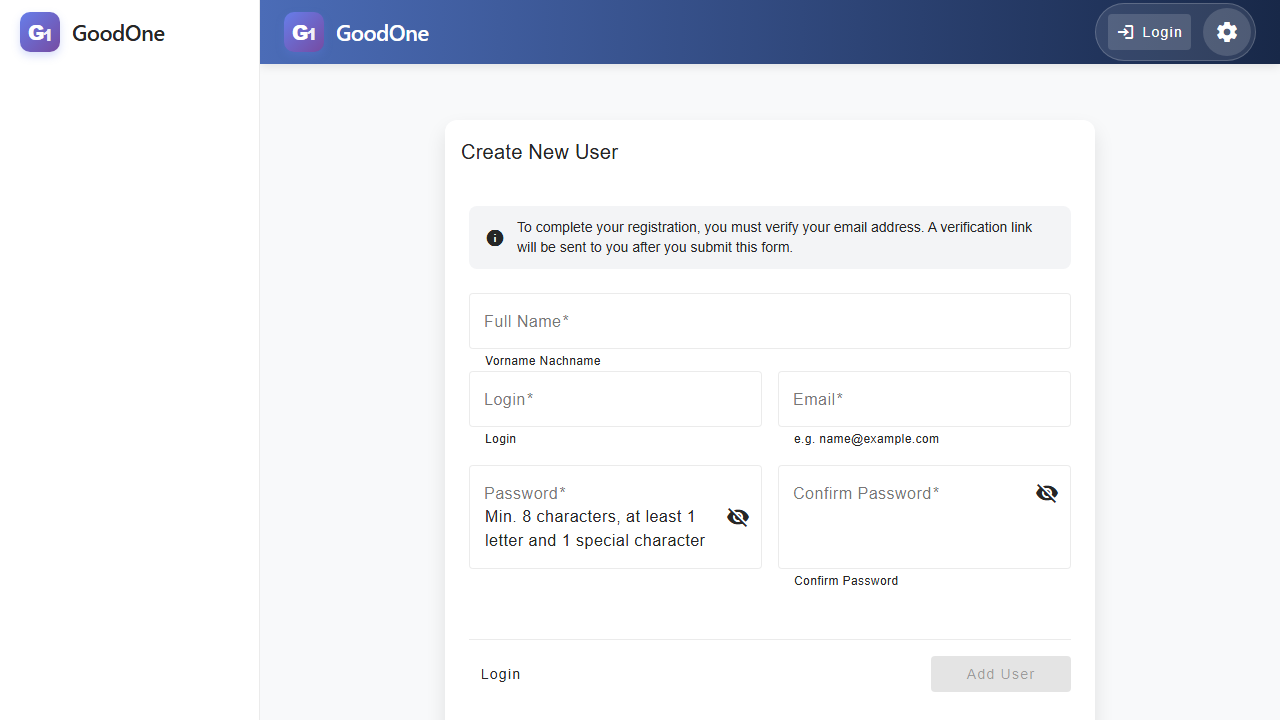
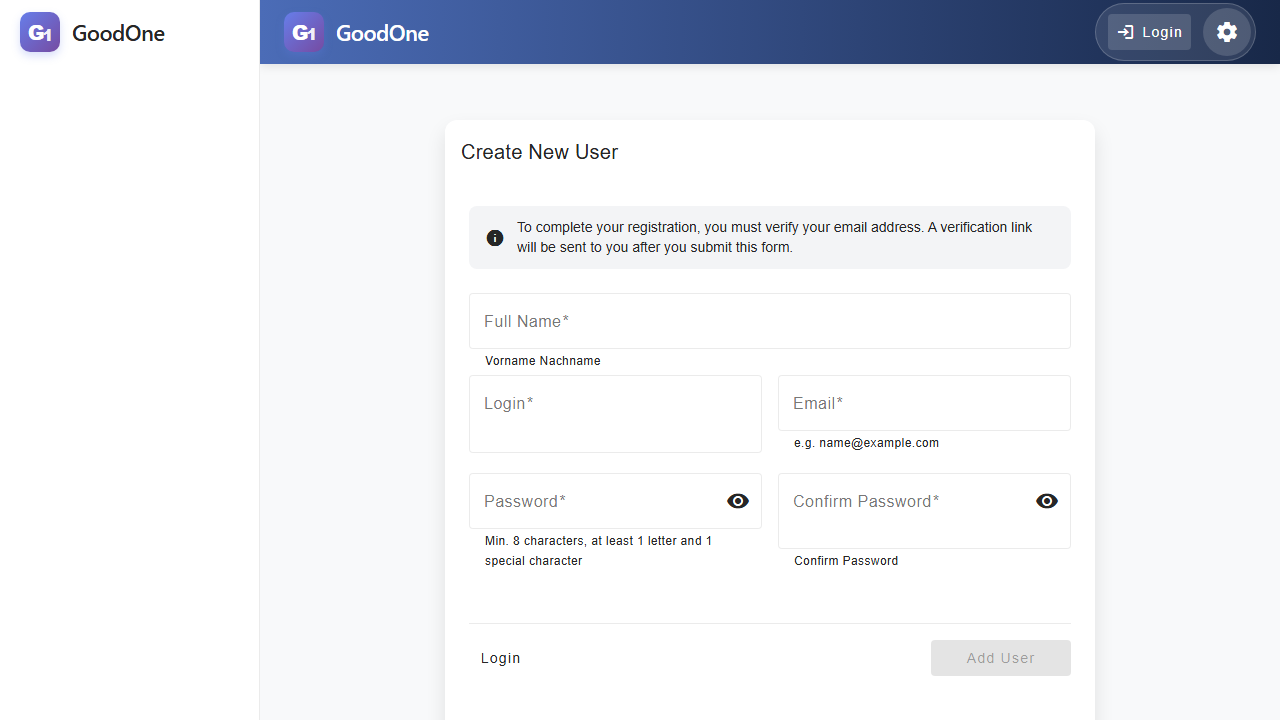
Refactor registration form validation logic to update on blur, enhance error handling, and update tests
- Applied `updateOn: 'blur'` for form field validations.
- Improved password mismatch and strength validator logic.
- Enhanced testing for new blur validation and field interactions.
- Updated e2e and unit tests to reflect validation changes and ensure proper error handling.
- Modified screenshots for UI consistency in testing scenarios.

diff --git a/frontend/src/app/components/register/register.component.ts b/frontend/src/app/components/register/register.component.ts
@@ -44,6 +44,7 @@ export class RegisterComponent implements OnInit, AfterViewInit {
 
   // CR-REG-06: submit/loading state
   isSubmitting = false;
+  submitted = false;
 
   error = '';
   recaptchaSiteKey = '';
@@ -52,7 +53,10 @@ export class RegisterComponent implements OnInit, AfterViewInit {
 
   showError(controlName: string): boolean {
     const control = this.registerForm.get(controlName);
-    return !!(control && control.invalid && (control.touched || control.dirty));
+    const isMismatch = controlName === 'confirmPassword' &&
+      (this.registerForm.errors?.['passwordMismatch'] || control?.hasError('passwordMismatch'));
+
+    return !!(control && (control.invalid || isMismatch) && (control.touched || this.submitted));
   }
 
   constructor(
@@ -63,11 +67,11 @@ export class RegisterComponent implements OnInit, AfterViewInit {
     private cdr: ChangeDetectorRef
   ) {
     this.registerForm = this.fb.group({
-      fullName: ['', [Validators.required, this.nameFormatValidator()]],
-      login: ['', [Validators.required, this.noSpacesValidator()]],
-      email: ['', [Validators.required, Validators.email]],
-      password: ['', [Validators.required, this.passwordStrengthValidator()]],
-      confirmPassword: ['', Validators.required],
+      fullName: ['', { validators: [Validators.required, this.nameFormatValidator()], updateOn: 'blur' }],
+      login: ['', { validators: [Validators.required, this.noSpacesValidator()], updateOn: 'blur' }],
+      email: ['', { validators: [Validators.required, Validators.email], updateOn: 'blur' }],
+      password: ['', { validators: [Validators.required, this.passwordStrengthValidator()], updateOn: 'blur' }],
+      confirmPassword: ['', { validators: [Validators.required], updateOn: 'blur' }],
       address: ['']
     }, { validators: this.passwordMatchValidator });
   }
@@ -83,9 +87,14 @@ export class RegisterComponent implements OnInit, AfterViewInit {
   passwordStrengthValidator() {
     // CR-REG-02: centralize validators
     return (control: AbstractControl): ValidationErrors | null => {
-      if (!control.value) return null;
+      const value = control.value;
+      if (!value) return null;
       const passwordRegex = /^(?=.*[A-Za-z])(?=.*[^A-Za-z0-9]).{8,}$/;
-      return passwordRegex.test(control.value) ? null : { passwordStrength: true };
+      const isInvalid = !passwordRegex.test(value);
+
+      // Update strength immediately on typing via template (input) event
+      // This validator runs on blur due to updateOn: 'blur'
+      return isInvalid ? { passwordStrength: true } : null;
     };
   }
 
@@ -102,12 +111,24 @@ export class RegisterComponent implements OnInit, AfterViewInit {
     // CR-REG-02: confirm match as form error
     const password = group.get('password')?.value;
     const confirmPassword = group.get('confirmPassword')?.value;
-    if (!confirmPassword) return null; // Wait for user to type something
+    const confirmControl = group.get('confirmPassword');
+
+    // Logic: mismatch shows only after confirm has value + blur, or after submit
+    // updateOn: 'blur' on confirmControl handles the blur part.
+    if (!confirmPassword) {
+      if (confirmControl) {
+         const currentErrors = confirmControl.errors;
+         if (currentErrors) {
+           delete currentErrors['passwordMismatch'];
+           confirmControl.setErrors(Object.keys(currentErrors).length > 0 ? currentErrors : null);
+         }
+      }
+      return null;
+    }
 
     const mismatch = password === confirmPassword ? null : { passwordMismatch: true };
 
     // Also set error on the confirmPassword control so mat-form-field marks it as invalid
-    const confirmControl = group.get('confirmPassword');
     if (confirmControl) {
       const currentErrors = confirmControl.errors;
       if (mismatch) {
@@ -227,6 +248,7 @@ export class RegisterComponent implements OnInit, AfterViewInit {
   }
 
   onSubmit() {
+    this.submitted = true;
     if (this.registerForm.invalid) {
       this.registerForm.markAllAsTouched();
       return;

diff --git a/frontend/e2e/registration-extensive.spec.ts b/frontend/e2e/registration-extensive.spec.ts
@@ -151,10 +151,15 @@ test.describe('Registration Extensive E2E Tests', () => {
     // or just assume it works if it reaches the success screen.
 
     await page.locator('input[formControlName="fullName"]').fill('   Hans Peter   Müller   ');
+    await page.locator('input[formControlName="fullName"]').blur();
     await page.locator('input[formControlName="login"]').fill(login);
+    await page.locator('input[formControlName="login"]').blur();
     await page.locator('input[formControlName="email"]').fill(email);
+    await page.locator('input[formControlName="email"]').blur();
     await page.locator('input[formControlName="password"]').fill('ValidPass123!');
+    await page.locator('input[formControlName="password"]').blur();
     await page.locator('input[formControlName="confirmPassword"]').fill('ValidPass123!');
+    await page.locator('input[formControlName="confirmPassword"]').blur();
 
     // The button should be enabled now
     const registerBtn = page.locator('#register-btn');
@@ -194,10 +199,15 @@ test.describe('Registration Extensive E2E Tests', () => {
 
   test('should handle registration errors from backend', async ({ page }) => {
     await page.locator('input[formControlName="fullName"]').fill('John Doe');
+    await page.locator('input[formControlName="fullName"]').blur();
     await page.locator('input[formControlName="login"]').fill('existinguser');
+    await page.locator('input[formControlName="login"]').blur();
     await page.locator('input[formControlName="email"]').fill('existing@example.com');
+    await page.locator('input[formControlName="email"]').blur();
     await page.locator('input[formControlName="password"]').fill('ValidPass123!');
+    await page.locator('input[formControlName="password"]').blur();
     await page.locator('input[formControlName="confirmPassword"]').fill('ValidPass123!');
+    await page.locator('input[formControlName="confirmPassword"]').blur();
 
     // Mock error response
     await page.route('**/api/auth/register', async route => {
@@ -223,10 +233,15 @@ test.describe('Registration Extensive E2E Tests', () => {
 
     // 1. Initial registration (Mock success)
     await page.locator('input[formControlName="fullName"]').fill('First Attempt');
+    await page.locator('input[formControlName="fullName"]').blur();
     await page.locator('input[formControlName="login"]').fill(login);
+    await page.locator('input[formControlName="login"]').blur();
     await page.locator('input[formControlName="email"]').fill(email);
+    await page.locator('input[formControlName="email"]').blur();
     await page.locator('input[formControlName="password"]').fill('ValidPass123!');
+    await page.locator('input[formControlName="password"]').blur();
     await page.locator('input[formControlName="confirmPassword"]').fill('ValidPass123!');
+    await page.locator('input[formControlName="confirmPassword"]').blur();
 
     await page.route('**/api/auth/register', async route => {
       await route.fulfill({
@@ -246,10 +261,15 @@ test.describe('Registration Extensive E2E Tests', () => {
     });
 
     await page.locator('input[formControlName="fullName"]').fill('Second Attempt');
+    await page.locator('input[formControlName="fullName"]').blur();
     await page.locator('input[formControlName="login"]').fill(login);
+    await page.locator('input[formControlName="login"]').blur();
     await page.locator('input[formControlName="email"]').fill(email);
+    await page.locator('input[formControlName="email"]').blur();
     await page.locator('input[formControlName="password"]').fill('ValidPass123!');
+    await page.locator('input[formControlName="password"]').blur();
     await page.locator('input[formControlName="confirmPassword"]').fill('ValidPass123!');
+    await page.locator('input[formControlName="confirmPassword"]').blur();
 
     // Mock backend allowing it (because it was PENDING)
     await page.route('**/api/auth/register', async route => {

diff --git a/frontend/src/app/components/register/register.component.spec.ts b/frontend/src/app/components/register/register.component.spec.ts
@@ -85,23 +85,20 @@ describe('RegisterComponent', () => {
     expect(router.navigate).toHaveBeenCalledWith(['/register/success'], expect.anything());
   });
 
-  it('should validate full name format', () => {
+  it('should validate full name format only after blur', () => {
     const fullNameControl = component.registerForm.get('fullName');
 
-    // Single word
+    // Single word, no blur yet
     fullNameControl?.setValue('John');
+    expect(fullNameControl?.hasError('nameFormat')).toBe(false);
+
+    // Trigger validation (simulating blur)
+    fullNameControl?.updateValueAndValidity();
     expect(fullNameControl?.hasError('nameFormat')).toBe(true);
 
     // Two words
     fullNameControl?.setValue('John Doe');
-    expect(fullNameControl?.hasError('nameFormat')).toBe(false);
-
-    // Multiple words
-    fullNameControl?.setValue('Hans Peter Müller');
-    expect(fullNameControl?.hasError('nameFormat')).toBe(false);
-
-    // With extra spaces
-    fullNameControl?.setValue('  John   Doe  ');
+    fullNameControl?.updateValueAndValidity();
     expect(fullNameControl?.hasError('nameFormat')).toBe(false);
   });
 
@@ -137,15 +134,20 @@ describe('RegisterComponent', () => {
     expect(component.registerForm.get('fullName')?.hasError('nameFormat')).toBe(true);
   });
 
-  it('should validate login has no spaces', () => {
+  it('should validate login has no spaces only after blur', () => {
     const loginControl = component.registerForm.get('login');
 
-    // With space
+    // With space, no blur
     loginControl?.setValue('john doe');
+    expect(loginControl?.hasError('noSpaces')).toBe(false);
+
+    // Blur
+    loginControl?.updateValueAndValidity();
     expect(loginControl?.hasError('noSpaces')).toBe(true);
 
     // Without space
     loginControl?.setValue('johndoe');
+    loginControl?.updateValueAndValidity();
     expect(loginControl?.hasError('noSpaces')).toBe(false);
   });
 

diff --git a/frontend/e2e/auth-flow.spec.ts b/frontend/e2e/auth-flow.spec.ts
@@ -133,10 +133,15 @@ test.describe('Auth Flow (Login & Register)', () => {
           (window as any).BYPASS_RECAPTCHA = true;
         });
         await page.fill('input[formControlName="fullName"]', 'John Doe');
+        await page.locator('input[formControlName="fullName"]').blur();
         await page.fill('input[formControlName="login"]', 'johndoe' + uniqueId);
+        await page.locator('input[formControlName="login"]').blur();
         await page.fill('input[formControlName="email"]', 'john.doe' + uniqueId + '@example.com');
+        await page.locator('input[formControlName="email"]').blur();
         await page.fill('input[formControlName="password"]', password);
+        await page.locator('input[formControlName="password"]').blur();
         await page.fill('input[formControlName="confirmPassword"]', password);
+        await page.locator('input[formControlName="confirmPassword"]').blur();
 
         await page.evaluate(() => {
            const form = document.querySelector('form');

diff --git a/frontend/src/app/components/register/register.component.html b/frontend/src/app/components/register/register.component.html
@@ -54,7 +54,7 @@
           <mat-form-field appearance="outline" subscriptSizing="dynamic" class="password-field">
             <mat-label>{{ 'ADMIN.PASSWORD' | translate }}</mat-label>
             <!-- CR-REG-03: show/hide toggle -->
-            <input matInput [type]="passwordVisible ? 'text' : 'password'" formControlName="password" autocomplete="new-password">
+            <input matInput [type]="passwordVisible ? 'text' : 'password'" formControlName="password" autocomplete="new-password" (input)="onPasswordChange($any($event.target).value)">
 
             <button mat-icon-button matSuffix (click)="passwordVisible = !passwordVisible" type="button" [attr.aria-label]="'Toggle password visibility'">
               <mat-icon>{{passwordVisible ? 'visibility_off' : 'visibility'}}</mat-icon>
